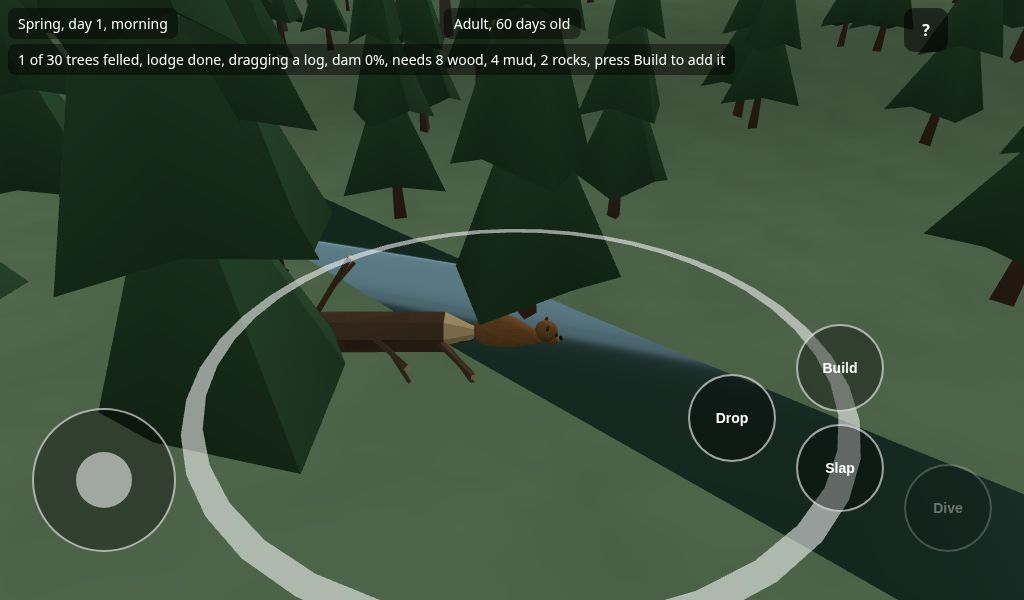
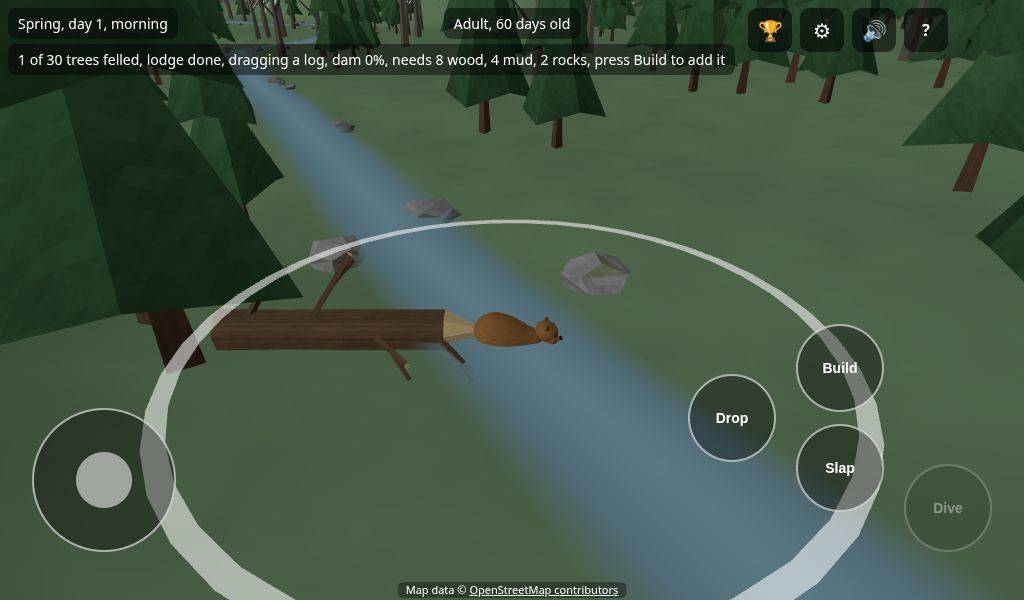
test: browser test of the release build, and retake the manual pictures (#550) (#553)

diff --git a/tests/release/release.spec.ts b/tests/release/release.spec.ts
@@ -1,0 +1,56 @@
+import { expect, test } from '@playwright/test';
+
+// Needs the release build in dist/ (`npm run build`), served by `vite preview`.
+
+test('the release build starts with no test menu and no game hook', async ({ page }) => {
+  const errors: string[] = [];
+  page.on('pageerror', (e) => errors.push(e.message));
+  await page.goto('/');
+  await expect(page.locator('canvas')).toBeVisible();
+  await expect(page.getByRole('button', { name: 'Settings' })).toBeVisible();
+  await expect(page.getByRole('button', { name: 'Things I did' })).toBeVisible();
+  await expect(page.getByRole('button', { name: 'Open the manual' })).toBeVisible();
+  await page.waitForTimeout(1000);
+  expect(await page.locator('#test-menu').count()).toBe(0);
+  expect(await page.evaluate(() => '__game' in window)).toBe(false);
+  expect(errors).toEqual([]);
+});
+
+test('dev URL parameters do nothing', async ({ page }) => {
+  const errors: string[] = [];
+  page.on('pageerror', (e) => errors.push(e.message));
+  await page.goto('/?dream=1&stage=baby&day=12&damsites=1&fly=free');
+  await expect(page.locator('canvas')).toBeVisible();
+  await page.waitForTimeout(1000);
+  // ?fly=free would leave the beaver's screens out; ?dream=1 would open a dream.
+  await expect(page.getByRole('button', { name: 'Settings' })).toBeVisible();
+  expect(await page.locator('#dream').count()).toBe(0);
+  expect(errors).toEqual([]);
+});
+
+test('the volume is kept between runs', async ({ page }) => {
+  await page.goto('/');
+  await page.getByRole('button', { name: 'Settings' }).click();
+  const music = page.locator('input[data-action="settings-music"]');
+  await music.evaluate((el: HTMLInputElement) => {
+    el.value = '0.2';
+    el.dispatchEvent(new Event('input'));
+  });
+  await page.reload();
+  await page.getByRole('button', { name: 'Settings' }).click();
+  await expect(music).toHaveValue('0.2');
+});
+
+test('the shadows choice restarts the game with shadows on', async ({ page }) => {
+  const errors: string[] = [];
+  page.on('pageerror', (e) => errors.push(e.message));
+  await page.goto('/');
+  await page.getByRole('button', { name: 'Settings' }).click();
+  const shadows = page.locator('button[data-action="settings-shadows"]');
+  await expect(shadows).toHaveText('Off');
+  await Promise.all([page.waitForNavigation(), shadows.click()]);
+  await expect(page.locator('canvas')).toBeVisible();
+  await page.getByRole('button', { name: 'Settings' }).click();
+  await expect(shadows).toHaveText('On');
+  expect(errors).toEqual([]);
+});

diff --git a/playwright.release.config.ts b/playwright.release.config.ts
@@ -1,0 +1,15 @@
+import { defineConfig } from '@playwright/test';
+
+// The release build, served as it ships (ADR 0013): `npm run build` first, then `npm run test:release`. The playtests in
+// tests/e2e run on the dev server, where the test menu and window.__game exist; these check the build a player gets.
+const port = process.env.RELEASE_PORT ?? '5290';
+
+export default defineConfig({
+  testDir: 'tests/release',
+  webServer: {
+    command: `npx vite preview --port ${port} --strictPort`,
+    url: `http://localhost:${port}`,
+    reuseExistingServer: !process.env.CI,
+  },
+  use: { baseURL: `http://localhost:${port}` },
+});

diff --git a/CLAUDE.md b/CLAUDE.md
@@ -58,6 +58,7 @@ Everyday (gate means CI blocks a merge on it):
 - `npm run typecheck` - TypeScript check (gate)
 - `npm test` - Vitest unit tests (gate)
 - `npm run build` - type check and release build into `dist/` (gate), without the test menu, the dev URL parameters and `window.__game` ([ADR 0013](docs/decisions/0013-dev-tools-compile-time-flag.md)); `npm run check:release` fails if `dist/` still holds them (gate); `npm run build:devtools` keeps them (the Pages site)
+- `npm run test:release` - builds the release build and runs a short browser test on it with `vite preview` (`tests/release/`, gate in the `build` CI job, 25 s): no test menu, no `window.__game`, dev URL parameters ignored, Settings choices kept
 - `npm run test:e2e` - Playwright browser smoke test (gate; `E2E_PORT=5191` if 5173 is taken; first run
   `npx playwright install chromium`)
 - `npx playwright test tests/e2e/cycle.spec.ts` (also `build`, `dam`, `dams`, `life`, `locations`, `moves`) - playtests that play the real game with the keys and the test
